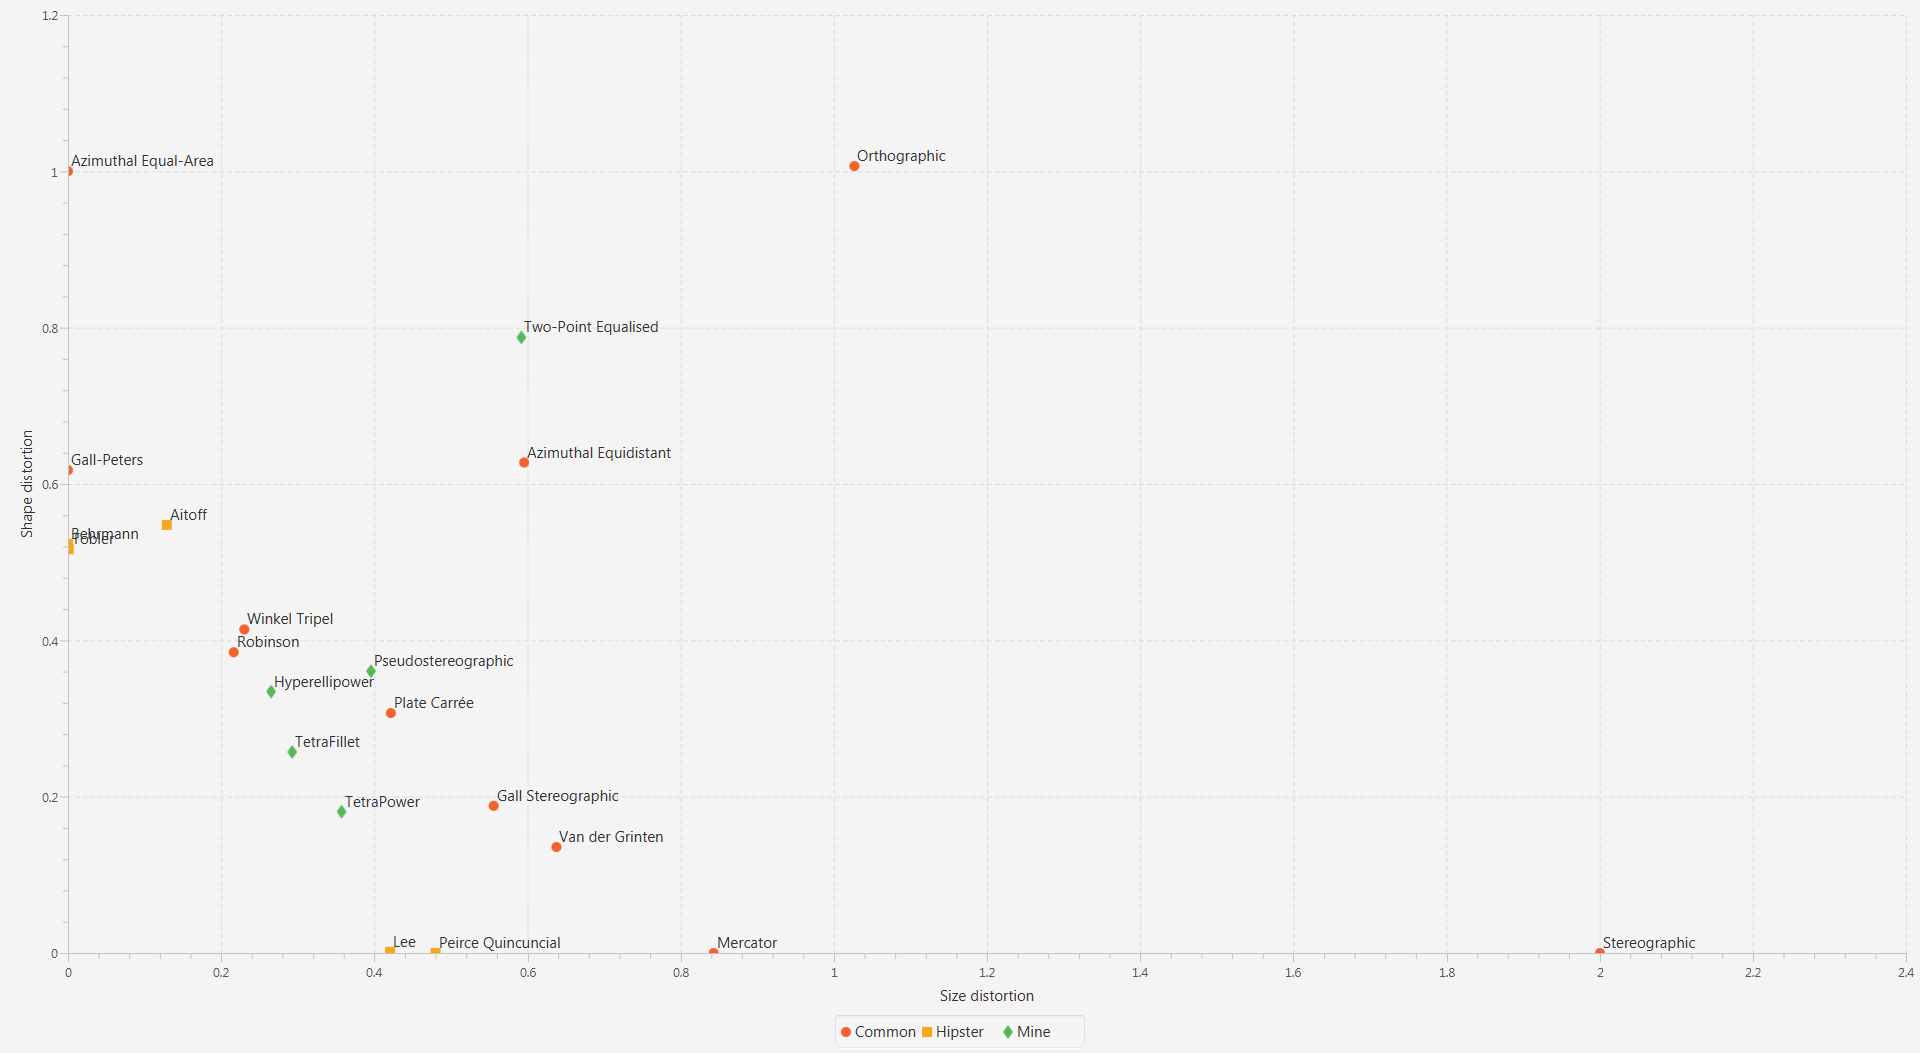
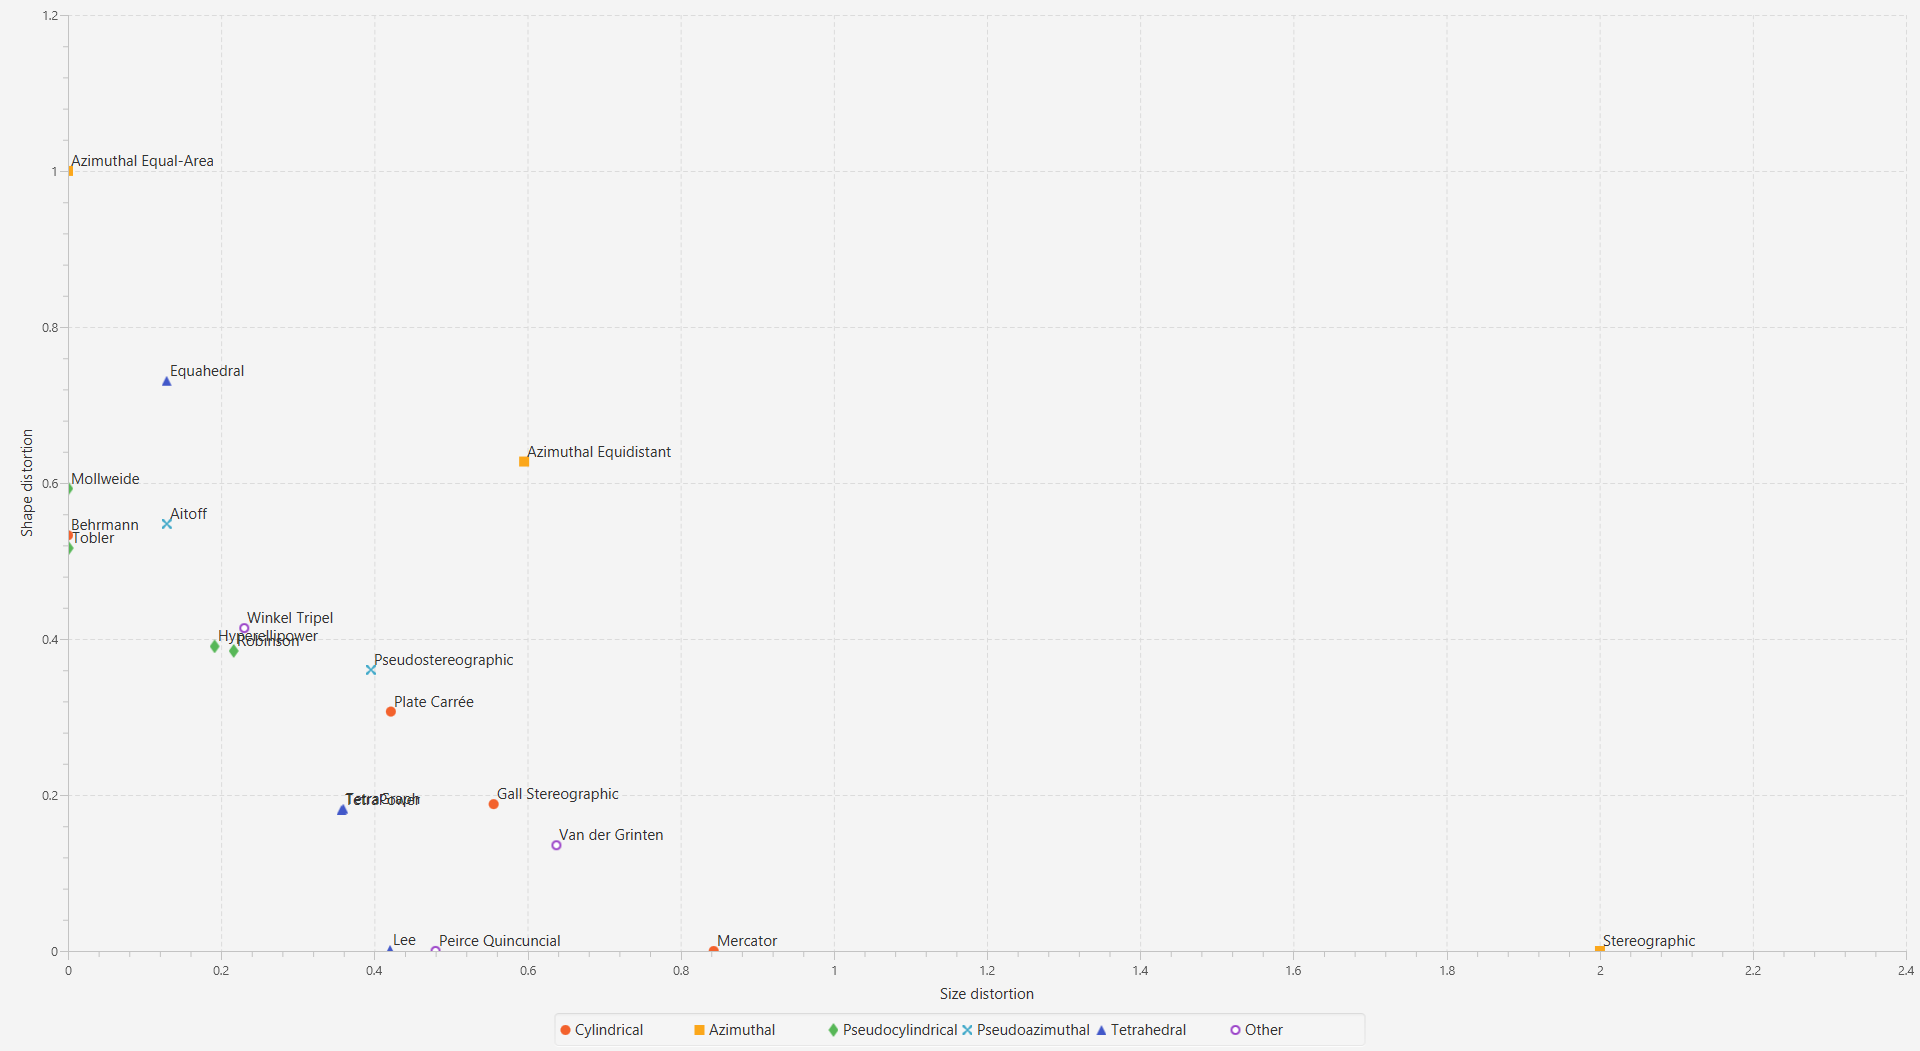
I underestimated the pointiness of triangles
As it turns out, they are quite pointy. And creating an authagraphic
tetrahedral projection that has to shove landmasses into the pointy
corners doesn't work very well. Oh, well. I did some fun calculus to
make it work. I don't know how AuthaGraph does it. Probably by not being
authagraphic and lying to its followers. I'll probably make something
interrupted now.

diff --git a/src/apps/MapPlotter.java b/src/apps/MapPlotter.java
@@ -51,6 +51,7 @@ import maps.Cylindrical;
 import maps.Misc;
 import maps.MyProjections;
 import maps.Projection;
+import maps.Pseudocylindrical;
 import maps.Robinson;
 import maps.Tetrahedral;
 import maps.Tobler;
@@ -65,15 +66,28 @@ public class MapPlotter extends Application {
 
 	private static final double GLOBE_RES = .002;
 	
-	private static final Projection[] COMMON = { Azimuthal.STEREOGRAPHIC, Cylindrical.MERCATOR,
-			Azimuthal.POLAR, Cylindrical.PLATE_CARREE, Azimuthal.EQUAL_AREA,
-			Cylindrical.GALL_PETERS, Cylindrical.GALL, Misc.VAN_DER_GRINTEN, Robinson.ROBINSON,
-			WinkelTripel.WINKEL_TRIPEL, Azimuthal.ORTHOGRAPHIC };
-	private static final Projection[] UNCOMMON = { Misc.PEIRCE_QUINCUNCIAL, Tetrahedral.LEE,
-			Tobler.TOBLER, Cylindrical.BEHRMANN, Misc.AITOFF };
-	private static final Projection[] INVENTED = { MyProjections.PSEUDOSTEREOGRAPHIC,
-			MyProjections.HYPERELLIPOWER, Tetrahedral.TETRAPOWER, Tetrahedral.TETRAFILLET,
-			MyProjections.TWO_POINT_EQUALIZED };
+	private static final Projection[] CYLINDRICAL = { Cylindrical.MERCATOR,
+			Cylindrical.PLATE_CARREE, Cylindrical.BEHRMANN, Cylindrical.GALL };
+	private static final Projection[] AZIMUTHAL = { Azimuthal.STEREOGRAPHIC, Azimuthal.POLAR,
+			Azimuthal.EQUAL_AREA };
+	private static final Projection[] PSEUDOCYL = { Pseudocylindrical.MOLLWEIDE,
+			Robinson.ROBINSON, Tobler.TOBLER, MyProjections.HYPERELLIPOWER };
+	private static final Projection[] PSEUDOAZM = { Misc.AITOFF,
+			MyProjections.PSEUDOSTEREOGRAPHIC };
+	private static final Projection[] TETRAHEDRAL = { Tetrahedral.LEE, Tetrahedral.TETRAGRAPH,
+			Tetrahedral.ACTAAUTHAGRAPH, Tetrahedral.TETRAPOWER };
+	private static final Projection[] OTHER = { Misc.VAN_DER_GRINTEN, WinkelTripel.WINKEL_TRIPEL,
+			Misc.PEIRCE_QUINCUNCIAL };
+	
+//	private static final Projection[] COMMON = { Azimuthal.STEREOGRAPHIC, Cylindrical.MERCATOR,
+//			Azimuthal.POLAR, Cylindrical.PLATE_CARREE, Azimuthal.EQUAL_AREA,
+//			Cylindrical.GALL_PETERS, Cylindrical.GALL, Misc.VAN_DER_GRINTEN, Robinson.ROBINSON,
+//			WinkelTripel.WINKEL_TRIPEL, Azimuthal.ORTHOGRAPHIC };
+//	private static final Projection[] UNCOMMON = { Misc.PEIRCE_QUINCUNCIAL, Tetrahedral.LEE,
+//			Tobler.TOBLER, Cylindrical.BEHRMANN, Misc.AITOFF };
+//	private static final Projection[] INVENTED = { MyProjections.PSEUDOSTEREOGRAPHIC,
+//			MyProjections.HYPERELLIPOWER, Tetrahedral.ACTAAUTHAGRAPH, Tetrahedral.TETRAPOWER,
+//			Tetrahedral.TETRAFILLET, MyProjections.TWO_POINT_EQUALIZED };
 	
 	
 	private StackPane stack;
@@ -98,9 +112,16 @@ public class MapPlotter extends Application {
 		final List<Data<Number,Number>> data = new LinkedList<Data<Number,Number>>();
 		final double[][][] points = Projection.globe(GLOBE_RES);
 		
-		plotProjections(plot, overlay, labels, data, COMMON, "Common", points);
-		plotProjections(plot, overlay, labels, data, UNCOMMON, "Hipster", points);
-		plotProjections(plot, overlay, labels, data, INVENTED, "Mine", points);
+		plotProjections(plot, overlay, labels, data, CYLINDRICAL, "Cylindrical", points);
+		plotProjections(plot, overlay, labels, data, AZIMUTHAL, "Azimuthal", points);
+		plotProjections(plot, overlay, labels, data, PSEUDOCYL, "Pseudocylindrical", points);
+		plotProjections(plot, overlay, labels, data, PSEUDOAZM, "Pseudoazimuthal", points);
+		plotProjections(plot, overlay, labels, data, TETRAHEDRAL, "Tetrahedral", points);
+		plotProjections(plot, overlay, labels, data, OTHER, "Other", points);
+		
+//		plotProjections(plot, overlay, labels, data, COMMON, "Common", points);
+//		plotProjections(plot, overlay, labels, data, UNCOMMON, "Hipster", points);
+//		plotProjections(plot, overlay, labels, data, INVENTED, "Mine", points);
 		
 		final ChangeListener<Number> listener = new ChangeListener<Number>() {
 			final Timer timer = new Timer();

diff --git a/src/maps/Tetrahedral.java b/src/maps/Tetrahedral.java
@@ -76,6 +76,28 @@ public class Tetrahedral {
 	};
 	
 	
+	public static final Projection ACTAAUTHAGRAPH =
+			new TetrahedralProjection(
+					"Equahedral", 0b1011, Property.EQUAL_AREA, null, "to put AuthaGraph to shame.") {
+		
+		public double[] innerProject(double lat, double lon) {
+			final double Lam = Math.floor(lon/(2*Math.PI/3))*(2*Math.PI/3) + Math.PI/3;
+			final double lam = lon - Lam;
+			final double tht = Math.atan((lam - Math.asin(Math.sin(lam)/Math.sqrt(3)))/Math.PI*Math.sqrt(108));
+			return new double[] {
+					Math.sqrt((1 - Math.sin(lat))/(1 - 1/Math.sqrt(1+2/Math.cos(lam))))/Math.cos(tht),
+//					(Math.PI/2-lat)/Math.atan(Math.sqrt(2)/Math.cos(lam))/Math.cos(tht),
+					Lam + tht };
+		}
+		
+		public double[] innerInverse(double x, double y) {
+			// TODO: Implement this
+			return null;
+		}
+		
+	};
+	
+	
 	public static final Projection TETRAPOWER =
 			new TetrahedralProjection(
 					"TetraPower", "A parameterised tetrahedral projection that I invented.",
@@ -200,69 +222,6 @@ public class Tetrahedral {
 			return new double[] {
 					Math.atan(Math.cos(lamS)/Math.tan(rtgf/rmax*Math.atan(Math.sqrt(2)))),
 					t0 + lamS };
-		}
-	};
-	
-	
-	public static final Projection AUTHAGRAPH =
-			new TetrahedralProjection("AuthaGraph",
-					"A hip new Japanese map that is almost authagraphic (this is an approximation; they won't give me their actual equations).",
-					0b1001, Property.COMPROMISE) {
-		
-		public double[] project(double lat, double lon) {
-			return null; //TODO Can I live with myself if I never implement this?
-		}
-		
-		public double[] innerProject(double lat, double lon) {
-			return null;
-		}
-		
-		public double[] inverse(double x, double y) {
-			final double[] faceCenter;
-			final double dt, xp, yp;
-			if (y-1 < 4*x && y-1 < -4*x) {
-				faceCenter = new double[] { Math.PI/2-Math.asin(Math.sqrt(8)/3), 0, 0};
-				dt = 0;
-				xp = 4/Math.sqrt(3)*x;
-				yp = y+1/3.0;
-			}
-			else if (y-1 < -4*(x+1)) {
-				faceCenter = new double[] { -Math.PI/2, Math.PI, 0 };
-				dt = 0;
-				xp = 4/Math.sqrt(3)*(x+1);
-				yp = y+1/3.0;
-			}
-			else if (y-1 < 4*(x-1)) {
-				faceCenter = new double[] { -Math.PI/2, Math.PI, 0 };
-				dt = 0;
-				xp = 4/Math.sqrt(3)*(x-1);
-				yp = y+1/3.0;
-			}
-			else if (x < 0) {
-				faceCenter = new double[] { Math.PI/2-Math.asin(Math.sqrt(8)/3), 4*Math.PI/3, 0 };
-				dt = Math.PI/3;
-				xp = 4/Math.sqrt(3)*(x+0.5);
-				yp = y-1/3.0;
-			}
-			else {
-				faceCenter = new double[] { Math.PI/2-Math.asin(Math.sqrt(8)/3), 2*Math.PI/3, 0 };
-				dt = -Math.PI/3;
-				xp = 4/Math.sqrt(3)*(x-0.5);
-				yp = y-1/3.0;
-			}
-			
-			return obliquifyPlnr(
-					innerInverse(Math.hypot(xp, yp), Math.atan2(yp, xp)+dt), faceCenter);
-		}
-		
-		protected double[] innerInverse(double r, double tht) {
-			final double t0 = Math.floor((tht+Math.PI/2)/(2*Math.PI/3)+0.5)*(2*Math.PI/3) - Math.PI/2;
-			final double dt = tht-t0;
-			final double z = 2.49*r*Math.cos(dt);
-			final double g = 0.03575*z*z*z + 0.0219*z*z + 0.4441*z;
-			return new double[] {
-					Math.PI/2 - Math.atan(Math.tan(g)/Math.cos(dt)),
-					Math.PI/2 + t0 + dt };
 		}
 	};
 	

diff --git a/src/apps/MapDesignerVector.java b/src/apps/MapDesignerVector.java
@@ -82,12 +82,13 @@ public class MapDesignerVector extends MapApplication {
 			Cylindrical.EQUIRECTANGULAR, Cylindrical.EQUAL_AREA, Cylindrical.GALL,
 			Azimuthal.STEREOGRAPHIC, Azimuthal.POLAR, Azimuthal.EQUAL_AREA, Azimuthal.GNOMONIC,
 			Azimuthal.PERSPECTIVE, Conic.LAMBERT, Conic.EQUIDISTANT, Conic.ALBERS, Tetrahedral.LEE,
-			Tetrahedral.TETRAGRAPH, Pseudocylindrical.SINUSOIDAL, Pseudocylindrical.MOLLWEIDE,
-			Tobler.TOBLER, Misc.AITOFF, Misc.VAN_DER_GRINTEN, Robinson.ROBINSON,
-			WinkelTripel.WINKEL_TRIPEL, Misc.PEIRCE_QUINCUNCIAL, Misc.TWO_POINT_EQUIDISTANT,
-			Misc.HAMMER_RETROAZIMUTHAL, Pseudocylindrical.LEMONS, MyProjections.EXPERIMENT,
-			MyProjections.PSEUDOSTEREOGRAPHIC, MyProjections.HYPERELLIPOWER, Tetrahedral.TETRAPOWER,
-			Tetrahedral.TETRAFILLET, MyProjections.TWO_POINT_EQUALIZED };
+			Tetrahedral.TETRAGRAPH, Tetrahedral.ACTAAUTHAGRAPH, Pseudocylindrical.SINUSOIDAL,
+			Pseudocylindrical.MOLLWEIDE, Tobler.TOBLER, Misc.AITOFF, Misc.VAN_DER_GRINTEN,
+			Robinson.ROBINSON, WinkelTripel.WINKEL_TRIPEL, Misc.PEIRCE_QUINCUNCIAL,
+			Misc.TWO_POINT_EQUIDISTANT, Misc.HAMMER_RETROAZIMUTHAL, Pseudocylindrical.LEMONS,
+			MyProjections.EXPERIMENT, MyProjections.PSEUDOSTEREOGRAPHIC,
+			MyProjections.HYPERELLIPOWER, Tetrahedral.TETRAPOWER, Tetrahedral.TETRAFILLET,
+			MyProjections.TWO_POINT_EQUALIZED };
 	
 	private static final int DEF_MAX_VTX = 5000;
 	private static final int FAST_MAX_VTX = 2000;

diff --git a/src/apps/MapAnalyzer.java b/src/apps/MapAnalyzer.java
@@ -97,9 +97,9 @@ public class MapAnalyzer extends MapApplication {
 			Cylindrical.BEHRMANN, Cylindrical.LAMBERT, Cylindrical.EQUAL_AREA, Cylindrical.GALL,
 			Azimuthal.STEREOGRAPHIC, Azimuthal.POLAR, Azimuthal.EQUAL_AREA, Azimuthal.GNOMONIC,
 			Azimuthal.ORTHOGRAPHIC, Azimuthal.PERSPECTIVE, Conic.LAMBERT, Conic.EQUIDISTANT,
-			Conic.ALBERS, Tetrahedral.LEE, Tetrahedral.TETRAGRAPH, Pseudocylindrical.SINUSOIDAL,
-			Pseudocylindrical.MOLLWEIDE, Tobler.TOBLER, Misc.HAMMER, Misc.AITOFF,
-			Misc.VAN_DER_GRINTEN, Robinson.ROBINSON, WinkelTripel.WINKEL_TRIPEL,
+			Conic.ALBERS, Tetrahedral.LEE, Tetrahedral.TETRAGRAPH, Tetrahedral.ACTAAUTHAGRAPH,
+			Pseudocylindrical.SINUSOIDAL, Pseudocylindrical.MOLLWEIDE, Tobler.TOBLER, Misc.HAMMER,
+			Misc.AITOFF, Misc.VAN_DER_GRINTEN, Robinson.ROBINSON, WinkelTripel.WINKEL_TRIPEL,
 			Misc.PEIRCE_QUINCUNCIAL, Misc.TWO_POINT_EQUIDISTANT, Misc.HAMMER_RETROAZIMUTHAL,
 			Pseudocylindrical.LEMONS, MyProjections.EXPERIMENT, MyProjections.PSEUDOSTEREOGRAPHIC,
 			MyProjections.HYPERELLIPOWER, Tetrahedral.TETRAPOWER, Tetrahedral.TETRAFILLET,

diff --git a/src/apps/MapDesignerRaster.java b/src/apps/MapDesignerRaster.java
@@ -87,7 +87,7 @@ public class MapDesignerRaster extends MapApplication {
 			Cylindrical.EQUIRECTANGULAR, Cylindrical.EQUAL_AREA, Cylindrical.GALL,
 			Azimuthal.STEREOGRAPHIC, Azimuthal.POLAR, Azimuthal.EQUAL_AREA, Azimuthal.GNOMONIC,
 			Azimuthal.PERSPECTIVE, Conic.LAMBERT, Conic.EQUIDISTANT, Conic.ALBERS, Tetrahedral.LEE,
-			Tetrahedral.TETRAGRAPH, Tetrahedral.AUTHAGRAPH, Pseudocylindrical.SINUSOIDAL,
+			Tetrahedral.TETRAGRAPH, Tetrahedral.ACTAAUTHAGRAPH, Pseudocylindrical.SINUSOIDAL,
 			Pseudocylindrical.MOLLWEIDE, Tobler.TOBLER, Misc.AITOFF, Misc.VAN_DER_GRINTEN,
 			Robinson.ROBINSON, WinkelTripel.WINKEL_TRIPEL, Misc.PEIRCE_QUINCUNCIAL,
 			Misc.TWO_POINT_EQUIDISTANT, Misc.HAMMER_RETROAZIMUTHAL, Pseudocylindrical.LEMONS,

diff --git a/src/apps/MapExplainer.java b/src/apps/MapExplainer.java
@@ -61,7 +61,7 @@ public class MapExplainer {
 					Azimuthal.POLAR.transverse(), Azimuthal.EQUAL_AREA.transverse(),
 					Azimuthal.GNOMONIC.transverse(), Azimuthal.ORTHOGRAPHIC.transverse(),
 					Conic.LAMBERT, Conic.EQUIDISTANT, Conic.ALBERS, Tetrahedral.LEE,
-					Tetrahedral.TETRAGRAPH, Tetrahedral.AUTHAGRAPH, Pseudocylindrical.SINUSOIDAL,
+					Tetrahedral.TETRAGRAPH, Tetrahedral.ACTAAUTHAGRAPH, Pseudocylindrical.SINUSOIDAL,
 					Pseudocylindrical.MOLLWEIDE, Tobler.TOBLER, Misc.HAMMER, Misc.AITOFF,
 					Misc.VAN_DER_GRINTEN, Robinson.ROBINSON, WinkelTripel.WINKEL_TRIPEL,
 					Misc.PEIRCE_QUINCUNCIAL.transverse(), Misc.TWO_POINT_EQUIDISTANT,
